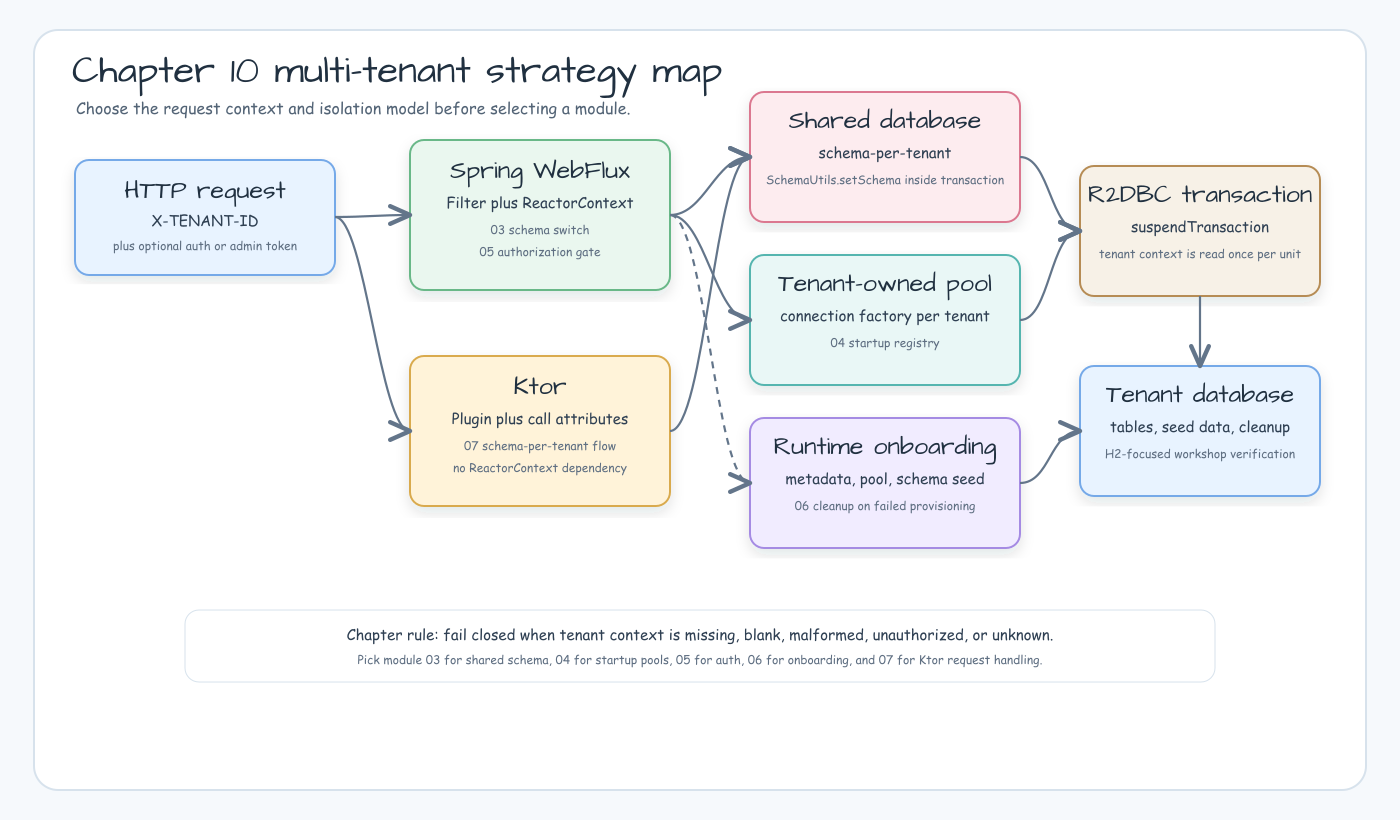
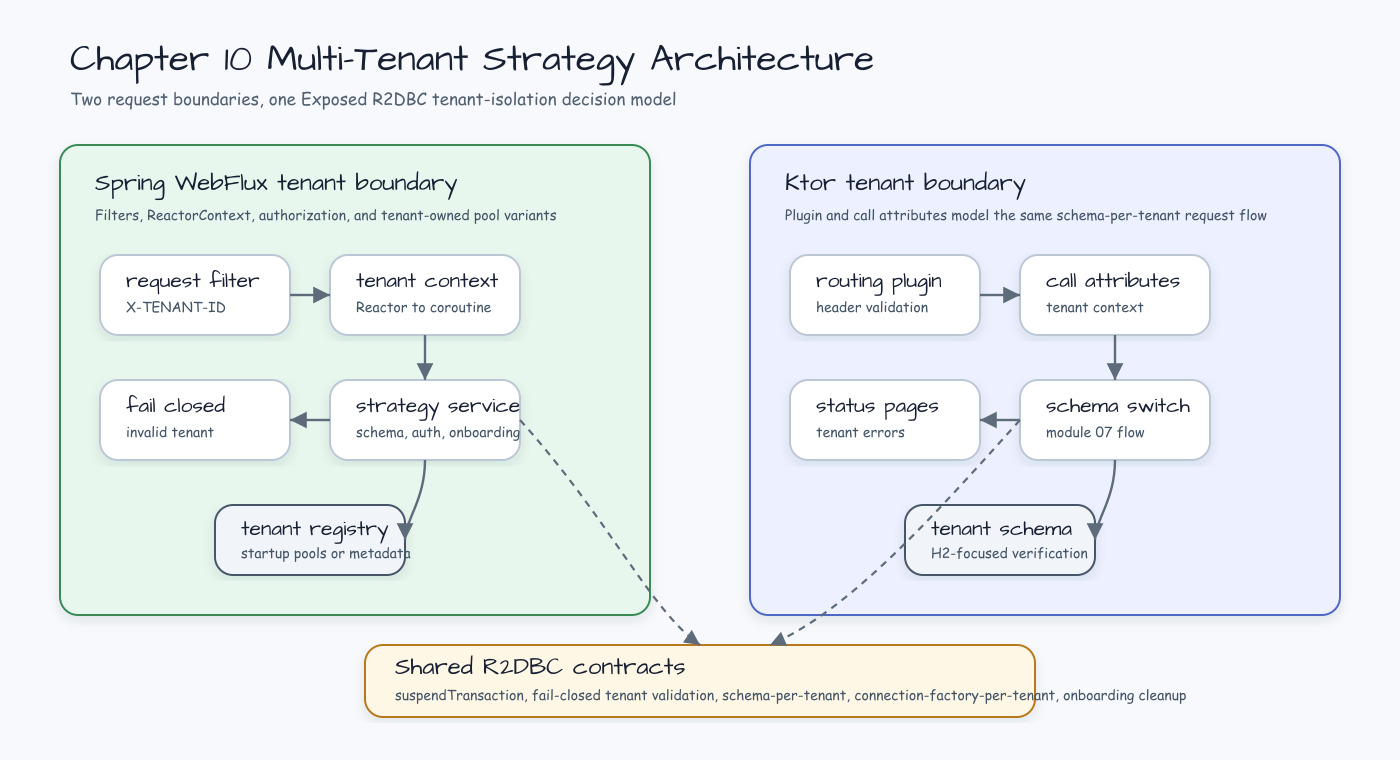
docs: refresh chapter 10 architecture diagram style
Make the chapter 10 strategy image demonstrate the workspace README diagram style feedback with panel composition, smaller triangular arrows, and Architects Daughter labels.

Constraint: Keep the existing README image path stable.
Rejected: Preserve the previous pipeline layout | it differed from the preferred chapter 12 component arrangement.
Confidence: high
Scope-risk: narrow
Directive: For chapter-level diagrams, start from panel composition before tuning connector geometry.
Tested: rsvg-convert rendered the PNG; xmllint --noout validated the SVG; visual inspection; git diff --check.
Not-tested: Gradle build; diagram asset-only change.

Changed region(s): [[0.0307, 0.0605, 0.9521, 0.9684], [0.9214, 0.575, 0.9521, 0.6053], [0.0307, 0.3026, 0.0614, 0.3329]]

diff --git a/docs/lessons/2026-05-24-chapter-10-diagram-style-refresh.md b/docs/lessons/2026-05-24-chapter-10-diagram-style-refresh.md
@@ -1,0 +1,31 @@
+# Chapter 10 Diagram Style Refresh
+
+## Context
+
+Chapter 10's multi-tenant strategy image used a pipeline-style layout that did
+not match the preferred chapter 12 component arrangement. The requested style
+kept the chapter 10/11 `Architects Daughter` typography and switched arrows to
+filled triangular arrowheads with smaller markers.
+
+## Decision
+
+Regenerate the chapter 10 strategy SVG/PNG with two large framework panels
+(`Spring WebFlux tenant boundary` and `Ktor tenant boundary`) plus a shared
+R2DBC contracts band. Keep README paths stable.
+
+## Outcome
+
+`docs/assets/readme-diagrams/10-multi-tenant-strategy-map-01.png` now presents
+chapter 10 using the preferred panel composition, smaller triangular arrows,
+and Architects Daughter headings.
+
+## Verification
+
+- Rendered the PNG with `rsvg-convert`.
+- Visually inspected the rendered PNG.
+- Ran `git diff --check`.
+
+## Future Guidance
+
+For chapter-level architecture diagrams, match chapter 12's panel layout first,
+then apply the workspace typography and arrow rules from the central guide.
